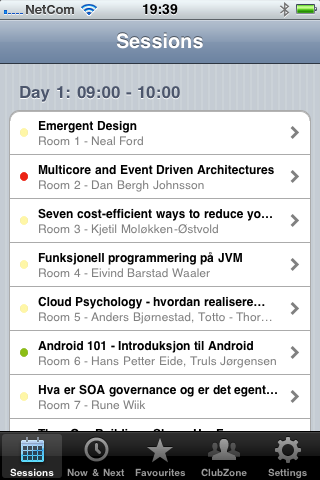
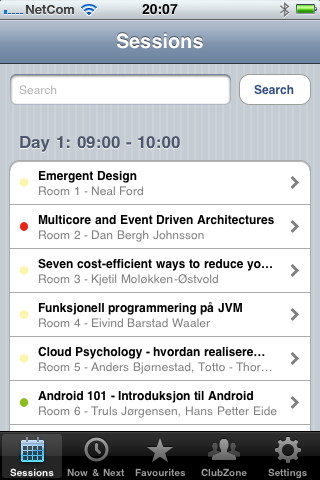
Add search

diff --git a/index.html b/index.html
@@ -16,9 +16,10 @@
 
 <h3>Sessions</h3>
 
-<p>Overview list showing all sessions and details window showing back to sessions button.</p>
+<p>Overview list showing all sessions, with search and details window showing back to sessions button.</p>
 
 <img src="screenshots/Overview.PNG"/>
+<img src="screenshots/Overview-Search.PNG"/>
 <img src="screenshots/Detail_from_overview.PNG"/>
 
 <p>Now &amp; next list showing all sessions and details window showing back to now &amp; next button.</p>
